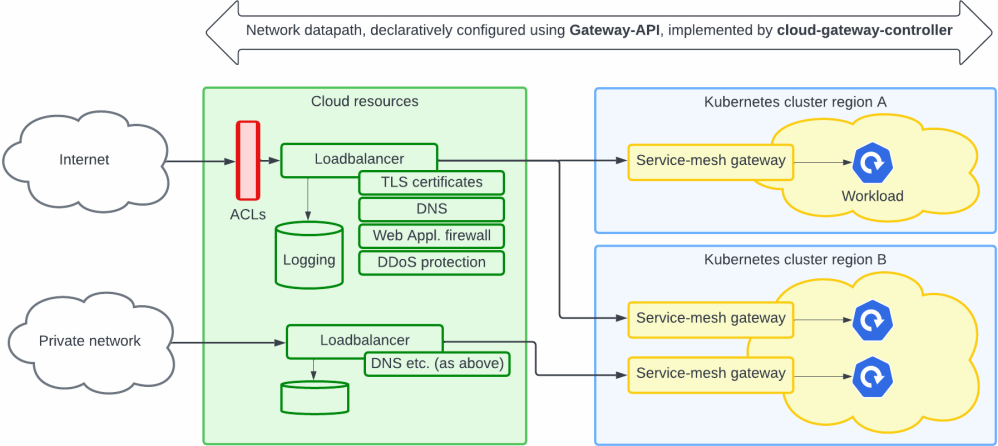
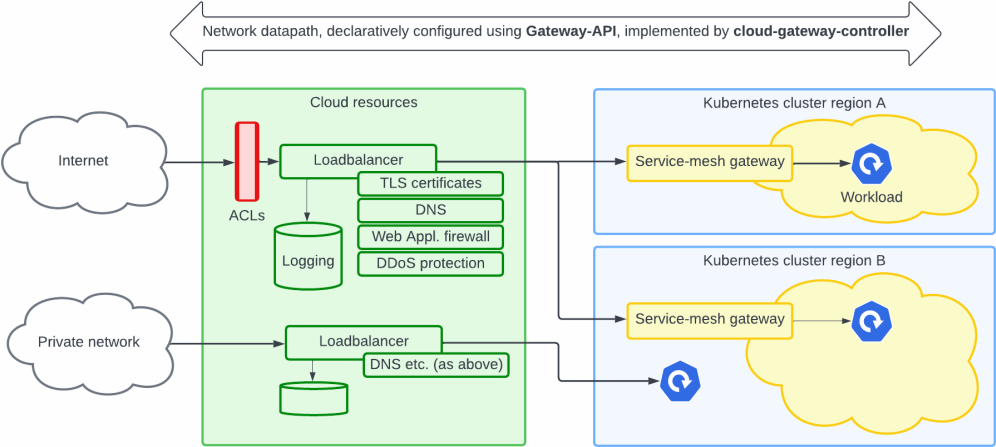
Update doc

diff --git a/doc/basic-datapath.md b/doc/basic-datapath.md
@@ -1,10 +1,173 @@
-# Basic Gateway
+# Basic Network Datapath
 
 This document describe user actions necessary to create a basic
-datapath. The datapath will consist of the `foo` Gateway and routing
-to the `foo-site` service as shown below. The example will be
-single-namespace and the `foo-store` service is not included.
+datapath. The datapath will consist of an application hosted on the
+domain `foo.example.com` and traffic is routed to the `foo-site`
+Kubernetes Service as shown below. This example will be single
+cluster, single namespace, ignore path-based routing. Also, the
+`foo-store` service is not included in this example.
 
 > ![Gateway-API example](images/gateway-api-multi-namespace.png)
 (source: https://gateway-api.sigs.k8s.io/)
 
+The `foo` team SRE persona, or possibly a platform/cluster operator,
+defines the network path using a `Gateway` resource and chooses the
+`public-gw-gateway-class` class as the 'implementation':
+
+```yaml
+apiVersion: gateway.networking.k8s.io/v1beta1
+kind: Gateway
+metadata:
+  name: foo-gateway
+spec:
+  gatewayClassName: public-gw-gateway-class
+  listeners:
+  - name: web
+    port: 80
+    protocol: HTTP
+    hostname: "foo.example.com"
+```
+
+Additionally, developers define routing from the gateway to the
+`foo-site` Kubernetes service with the following `HTTPRoute` resource:
+
+```yaml
+apiVersion: gateway.networking.k8s.io/v1beta1
+kind: HTTPRoute
+metadata:
+  name: foo-site
+spec:
+  parentRefs:
+  - kind: Gateway
+    name: foo-gateway
+  rules:
+  - backendRefs:
+    - name: foo-site
+      port: 80
+```
+
+## Implementation by *cloud-gateway-controller*
+
+The definitions above are generic Gateway API definitions. To
+illustrate how the *cloud-gateway-controller* implements this datapath
+we will assume the `GatewayClass` specified (`public-gw-gateway-class`)
+defines an implementation with an Istio service-mesh inside Kubernetes
+and ingress through an Istio ingress-gateway. Additionally we assume
+an AWS cloud infrastructure managed through Crossplane. To simplify
+the illustration some presented resources will have non-essential
+information left out.
+
+Note, that using Crossplane to provision the AWS load balancer may be
+over-kill for this simple example. However, examples that use more
+advanced cloud features will require an implementation that provide
+the level of control that e.g. Crossplane allows. Multi-cluster load
+distribution being one example of this.
+
+### Creating Istio Ingress Gateway
+
+To create the Istio ingress-gateway, the *cloud-gateway-controller*
+create a copy of the `foo-gateay` `Gateway` resource specifying an
+`istio` class instead of `public-gw-gateway-class`:
+
+```yaml
+apiVersion: gateway.networking.k8s.io/v1beta1
+kind: Gateway
+metadata:
+  name: foo-gateway-istio       # Suffixed to avoid name conflict
+spec:
+  gatewayClassName: istio       # Note, different class name
+  listeners:
+  - name: web
+    port: 80
+    protocol: HTTP
+    hostname: "foo.example.com"
+```
+
+Since Istio [also implements the Gateway
+API](https://istio.io/latest/docs/tasks/traffic-management/ingress/gateway-api)
+(albeit with a scope limited to the Kubernetes cluster) the result
+will be a Kubernetes `Deployment` and `Service` named
+`foo-gateway-istio`. This implements the Kubernetes-internal part of
+the datapath.
+
+Similarly, a copy is created of the `HTTPRoute` to configure the Istio
+gateway. Note, that the gateway reference in `parentRefs` is changed
+to the Istio gateway:
+
+```
+apiVersion: gateway.networking.k8s.io/v1beta1
+kind: HTTPRoute
+metadata:
+  name: foo-site-istio       # Suffixed to avoid name conflict
+spec:
+  parentRefs:
+  - kind: Gateway
+    name: foo-gateway-istio  # Configure routing in the Istio gateway
+  rules:
+  - backendRefs:
+    - name: foo-site
+      port: 80
+```
+
+### Creating Cloud Load Balancer
+
+The cloud infrastructure resources are provisioned through Crossplane
+using basic AWS resources. For this example, the `GatewayClass`
+`public-gw-gateway-class` define an AWS ALB based network path exposed
+to the Internet through public subnets. Thus, the
+*cloud-gateway-controller* creates the AWS ALB using the following
+resources. note how the port and protocol are propagated from the
+`Gateway` resource to the `Listener` resource:
+
+```yaml
+apiVersion: elbv2.aws.crossplane.io/v1alpha1
+kind: LoadBalancer
+metadata:
+  name: foo-gateway
+spec:
+  forProvider:
+    subnetMappings:
+    - subnetID: public-subnet-1
+    - subnetID: public-subnet-2
+    - subnetID: public-subnet-3
+---
+apiVersion: elbv2.aws.crossplane.io/v1alpha1
+kind: TargetGroup
+metadata:
+  name: foo-gateway
+spec:
+  forProvider:
+    protocol: HTTP
+---
+apiVersion: elbv2.aws.crossplane.io/v1alpha1
+kind: Listener
+metadata:
+  name: foo-gateway
+spec:
+  forProvider:
+    port: 80
+    protocol: HTTP
+    loadBalancerArn: <inserted by cloud-gateway-controller when known>
+    defaultActions:
+    - actionType: forward
+      targetGroupArn: <inserted by cloud-gateway-controller when known>
+```
+
+The final link between the `TargetGroup` created above and the Istio
+ingress-gateway Pods is the following `TargetGroupBinding`. This
+resource is managed by the [AWS load balancer
+controller](https://kubernetes-sigs.github.io/aws-load-balancer-controller)
+and updates the AWS `TargetGroup` with the addresses of the Istio
+ingress-gateway Pods.
+
+```
+apiVersion: elbv2.k8s.aws/v1beta1
+kind: TargetGroupBinding
+metadata:
+  name: foo-gateway
+spec:
+  targetGroupARN: <inserted by cloud-gateway-controller when known>
+  targetType: ip
+  serviceRef:
+    name: foo-gateway-istio    # Load balancer targets are Istio ingress-gw Pods
+```

diff --git a/README.md b/README.md
@@ -1,6 +1,6 @@
 # Cloud Gateway Controller
 
-The cloud-gateway-controller is an augmented Kubernetes network
+The *cloud-gateway-controller* is an augmented Kubernetes network
 gateway-controller -- think of it as a Kubernetes ingress-controller
 that not only provides a data-path inside Kubernetes, but extends the
 data-path outside Kubernetes into the surrounding cloud
@@ -29,7 +29,7 @@ datapath at the edge of the infrastructure:
 - ACLs limiting access to public datapaths based on IP addresses.
 
 - Adaptive and 'deep inspection' type of filtering and protection -
-  'web application firewall' solutions.
+  aka. 'web application firewall' solutions.
 
 - Logging of network traffic.
 
@@ -44,7 +44,7 @@ datapath at the edge of the infrastructure:
 Similarly, inside the Kubernetes cluster, we may have services that
 need a full service-mesh while others do not.
 
-A possible network datapath can thus look like this:
+The following is two examples of network datapaths:
 
 > ![Example network datapath](doc/images/example-network-datapath.png)
 
@@ -52,7 +52,7 @@ A possible network datapath can thus look like this:
 
 When building a platform, it is essential to provide a well-designed
 API to abstractions that are useful and manageable to users. The
-cloud-gateway-controller implements the [Kubernetes Gateway
+*cloud-gateway-controller* implements the [Kubernetes Gateway
 API](https://gateway-api.sigs.k8s.io/) to achieve this objective.
 
 The [Kubernetes Gateway API](https://gateway-api.sigs.k8s.io/) is an
@@ -61,13 +61,68 @@ gateways to Kubernetes services. This API is fast becoming the
 standard API and is [widely
 supported](https://gateway-api.sigs.k8s.io/implementations/).
 
-xxx
+**The *cloud-gateway-controller* presents the gateway API to users as
+the sole interface for network datapath definition.** This is the only
+interface users need to know and it fully supports a GitOps-based
+workflows. Users to not need to work with Terraform or generally know
+how the gateway-API is implemented by the platform.
 
+The Gateway API does not cover concerns such as DNS or web application
+firewall (WAF) configuration. **The *cloud-gateway-controller*
+implements concerns beyond Gateway-API scope using configuration in
+`GatewayClass` resources.** E.g., a specific `GatewayClass` defines a
+specific set of WAF rules.  This is very similar to how Kubernetes
+[storage
+classes](https://kubernetes.io/docs/concepts/storage/storage-classes)
+map abstract storage claims to actual implementations.
 
 A side-effect of using the Gateway API is that the
-cloud-gateway-controller interoperate well with other Kubernetes
+*cloud-gateway-controller* interoperate well with other Kubernetes
 solutions that automate networking, e.g. Canary deployments using
 [Flagger](https://flagger.app).
+
+## The *cloud-gateway-controller* is a Controller-of-controllers
+
+The *cloud-gateway-controller* does not talk to any cloud-APIs to
+implement the datapath. Instead it creates other Kubernetes resources
+that implement the individual components - much like the Kubernetes
+Deployment controller creates Pod resources and let another
+controller implement Pod resources.
+
+**One can think of the *cloud-gateway-controller* as an advanced Helm
+chart or a Crossplane composition.**
+
+Because the *cloud-gateway-controller* implements cloud resources
+through other controllers and with resources configured through
+`GatewayClass` resources, the *cloud-gateway-controller* is
+cloud-agnostic (but `GatewayClass` definitions are not).
+
+### Why Not Use e.g. Crossplane or Helm?
+
+An important objective of the *cloud-gateway-controller* is to maintain
+a Gateway-API compatible interface towards users. This would not be
+possible with techniques such as Crossplane and Helm.  Also, the
+mapping from the gateway-API to e.g. a Crossplane composition is
+non-trivial, i.e. it is difficult to do with purely templating.
+
+The *cloud-gateway-controller* implements some of the same composition
+logic as e.g. Crossplane. Why did we not use Crossplane compositions,
+e.g. build a gateway-API implementation using the following hierarchy
+of services?
+
+- Cloud-gateway-controller implements facade gateway API, stamps out Crossplane claim
+- Crossplane implements claim towards a composition
+- Composition defines how low-level cloud resources should be stamped out
+- Crossplane AWS provider implements low-level resources towards cloud API
+
+While this would be feasible, there are several complicated
+dependencies between each of the above components, which increase the
+maintenance burden. The *cloud-gateway-controller* design aims at
+reducing the complexity by building on a more self-contained
+monolithic design - or at least a design with less advanced
+dependencies between components. For this reason, we use the basic,
+low-level cloud resources of e.g. Crossplane and not the higher-level
+composition functionality.
 
 ## User Journeys
 
@@ -78,7 +133,7 @@ persona. See e.g. the following example:
 > ![Gateway-API personas](doc/images/gateway-api-personas.png)
 (source: https://gateway-api.sigs.k8s.io/)
 
-In the following we describe how to use the cloud-gateway-controller
+In the following we describe how to use the *cloud-gateway-controller*
 as seen from the perspective of these personas.
 
 - [Basic Network Datapath](doc/basic-datapath.md)
